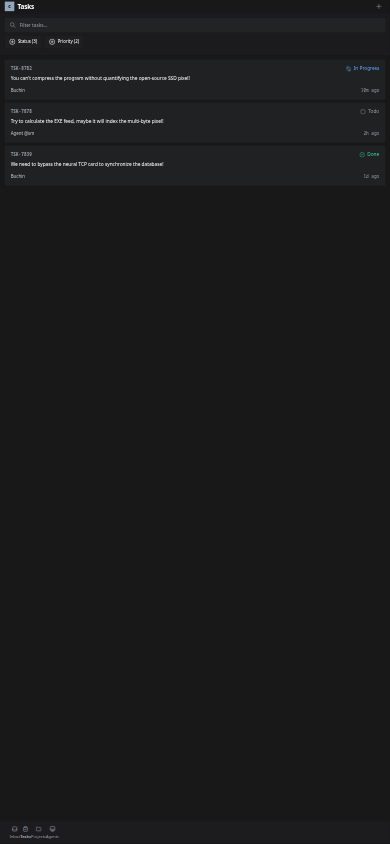
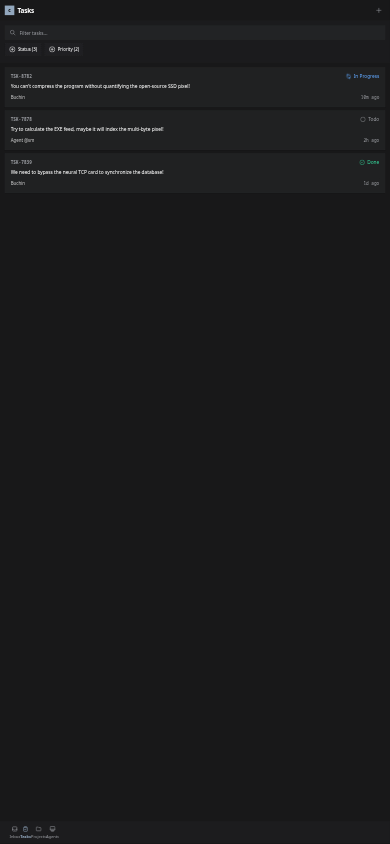
fix(layout): enforce unified 52px header and continuous horizontal border across all panels

Changed region(s): [[0.0, 0.0, 0.4923, 0.2464], [0.8923, 0.0616, 0.9846, 0.2156]]

diff --git a/web/src/components/layout/AppShell.tsx b/web/src/components/layout/AppShell.tsx
@@ -298,9 +298,9 @@ export function AppShell({
       <KeyboardShortcuts />
       <nav
         aria-label={t('Main navigation')}
-        className="primary-navigation hidden shrink-0 flex-col border-r border-border/60 bg-sidebar md:flex"
+        className="primary-navigation hidden shrink-0 flex-col border-r border-border bg-sidebar md:flex"
       >
-        <div className="sidebar-brand flex h-13 shrink-0 items-center justify-between border-b border-border/60 px-4">
+        <div className="sidebar-brand flex h-13 shrink-0 items-center justify-between border-b border-border px-4 box-border">
           <Link
             to="/chat"
             aria-label={t('Go to Chat')}
@@ -377,7 +377,7 @@ export function AppShell({
       <main className="flex h-full min-h-0 min-w-0 flex-1 flex-col overflow-hidden">
         <header
           className={cn(
-            'flex shrink-0 items-center justify-between gap-2 border-b border-border/60 bg-background px-3 md:px-5',
+            'flex shrink-0 items-center justify-between gap-2 border-b border-border bg-background px-3 md:px-5 box-border',
             'app-page-header h-14 md:h-16 md:!h-13',
             sessionWorkspace || contentHeader || currentTab === 'inbox' || currentTab === 'chat'
               ? 'hidden'

diff --git a/web/src/features/inbox/InboxView.tsx b/web/src/features/inbox/InboxView.tsx
@@ -1253,7 +1253,7 @@ export function InboxView({
         ) : (
           <>
             {/* ── Top Header (aligning with shadcn Mail h-13) ── */}
-            <div className="wa-chat-header h-13 px-4 flex items-center justify-between shrink-0 border-b border-border/60 bg-background">
+            <div className="wa-chat-header h-13 px-4 flex items-center justify-between shrink-0 border-b-0 min-[1200px]:border-b border-border bg-background box-border">
               <div className="flex items-center gap-1.5 sm:gap-2.5 min-w-0">
                 {/* Mobile Back Button (<) */}
                 <button

diff --git a/web/src/features/inbox/InboxSubPanel.tsx b/web/src/features/inbox/InboxSubPanel.tsx
@@ -427,7 +427,7 @@ export function InboxSubPanel({
   return (
     <div className="flex flex-col h-full inbox-list text-foreground select-none">
       {/* ── Single Unified Header (matching shadcn Mail h-13) ── */}
-      <div className="flex h-13 shrink-0 items-center justify-between border-b border-border/60 px-3 md:px-4">
+      <div className="flex h-13 shrink-0 items-center justify-between border-b border-border px-3 md:px-4 box-border">
         <div className="flex items-center gap-1.5 md:gap-2 min-w-0">
           <Link
             to="/chat"

diff --git a/web/src/features/inbox/chat-calm.css b/web/src/features/inbox/chat-calm.css
@@ -68,12 +68,20 @@
   background: var(--wa-header);
   color: var(--wa-text);
   border-bottom: none;
+  height: 52px;
+  min-height: 52px;
+  max-height: 52px;
+  box-sizing: border-box;
 }
 
 @media (min-width: 768px) {
   .wa-chat-header,
   .calm-chat-header {
-    border-bottom: 1px solid oklch(var(--border) / 0.8);
+    border-bottom: 1px solid oklch(var(--border)) !important;
+    height: 52px !important;
+    min-height: 52px !important;
+    max-height: 52px !important;
+    box-sizing: border-box !important;
   }
 }
 

diff --git a/web/src/index.css b/web/src/index.css
@@ -313,6 +313,17 @@ body:has(.task-terminal-container),
 }
 .sidebar-brand {
   position: relative;
+  height: 52px;
+  min-height: 52px;
+  max-height: 52px;
+  box-sizing: border-box;
+}
+.h-13,
+[class*="h-13"] {
+  height: 52px !important;
+  min-height: 52px !important;
+  max-height: 52px !important;
+  box-sizing: border-box !important;
 }
 @media (min-width: 1200px) {
   .primary-navigation .sidebar-account .account-label {

diff --git a/web/tailwind.config.js b/web/tailwind.config.js
@@ -12,6 +12,9 @@ export default {
         mono: ["var(--font-mono)"],
         serif: ["var(--font-serif)"],
       },
+      spacing: {
+        13: "52px",
+      },
       boxShadow: Object.fromEntries(["2xs", "xs", "sm", "md", "lg", "xl", "2xl"].map(size => [size, `var(--shadow-${size})`]).concat([["DEFAULT", "var(--shadow)"]])),
       colors: {
         background: "oklch(var(--background) / <alpha-value>)",
